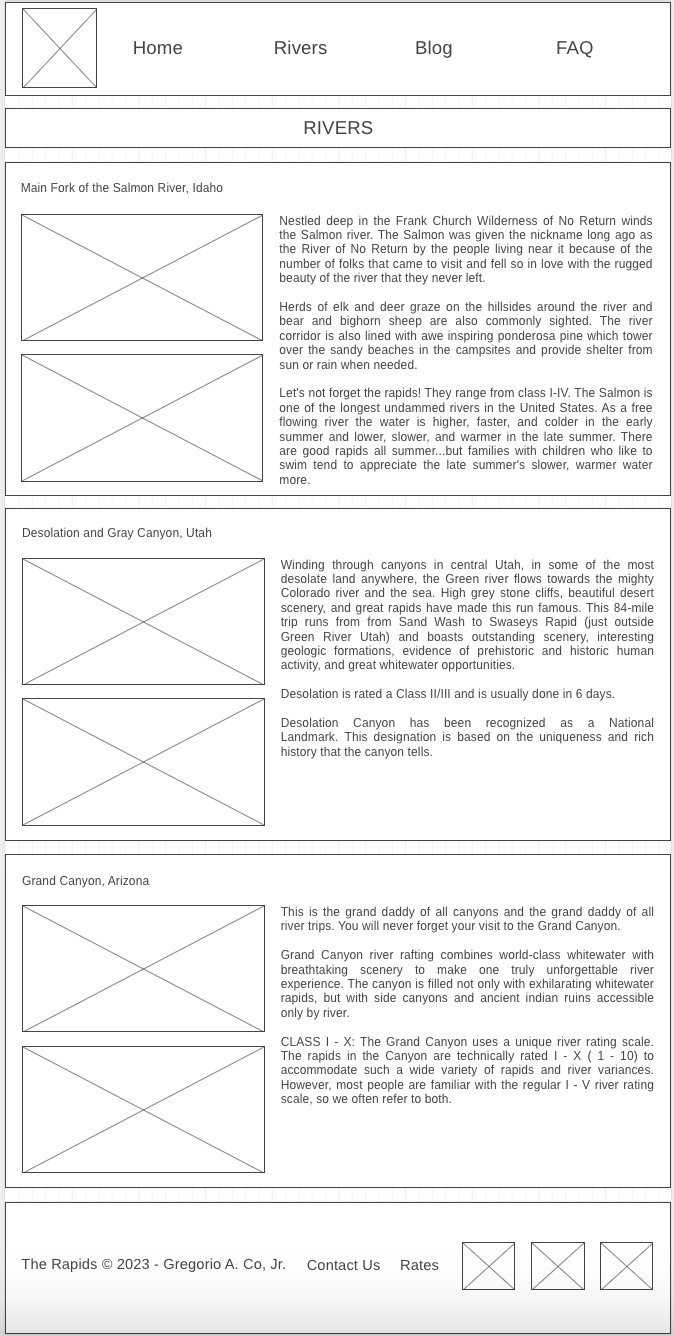
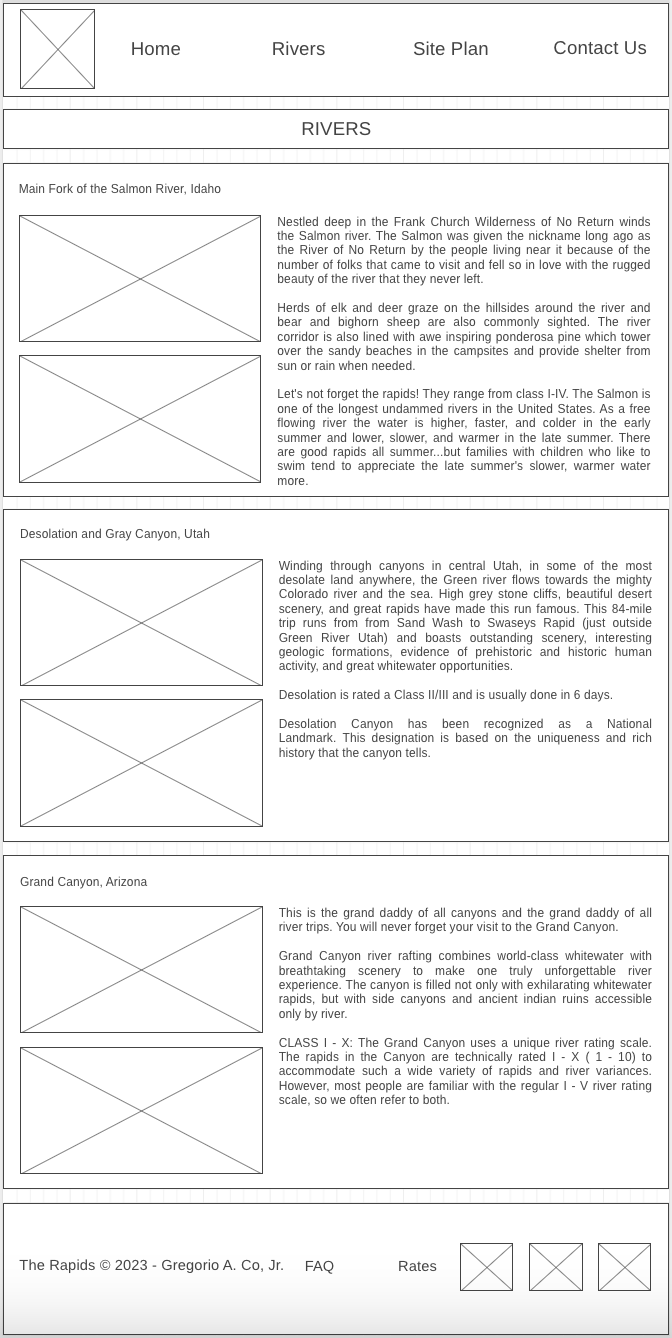
edits for wireframe

diff --git a/wrr/index.html b/wrr/index.html
@@ -15,7 +15,7 @@
         </a>
         <nav>
             <a href="index.html">Home</a>
-            <a href="#">Page 2</a>
+            <a href="#">Rivers</a>
             <a href="site-plan-rafting.html">Site Plan</a>
             <a href="contactus.html">Contact Us</a>
         </nav>
